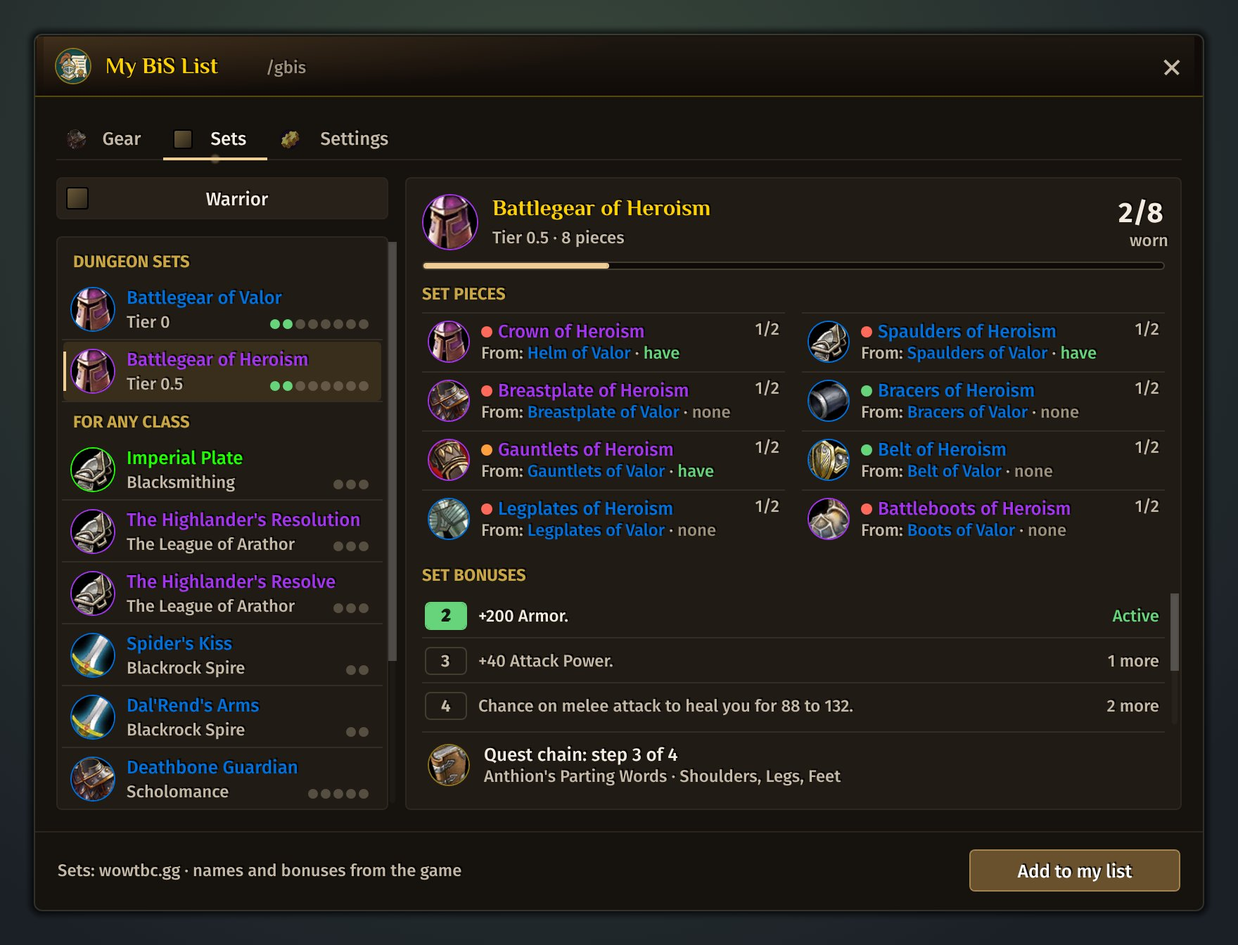
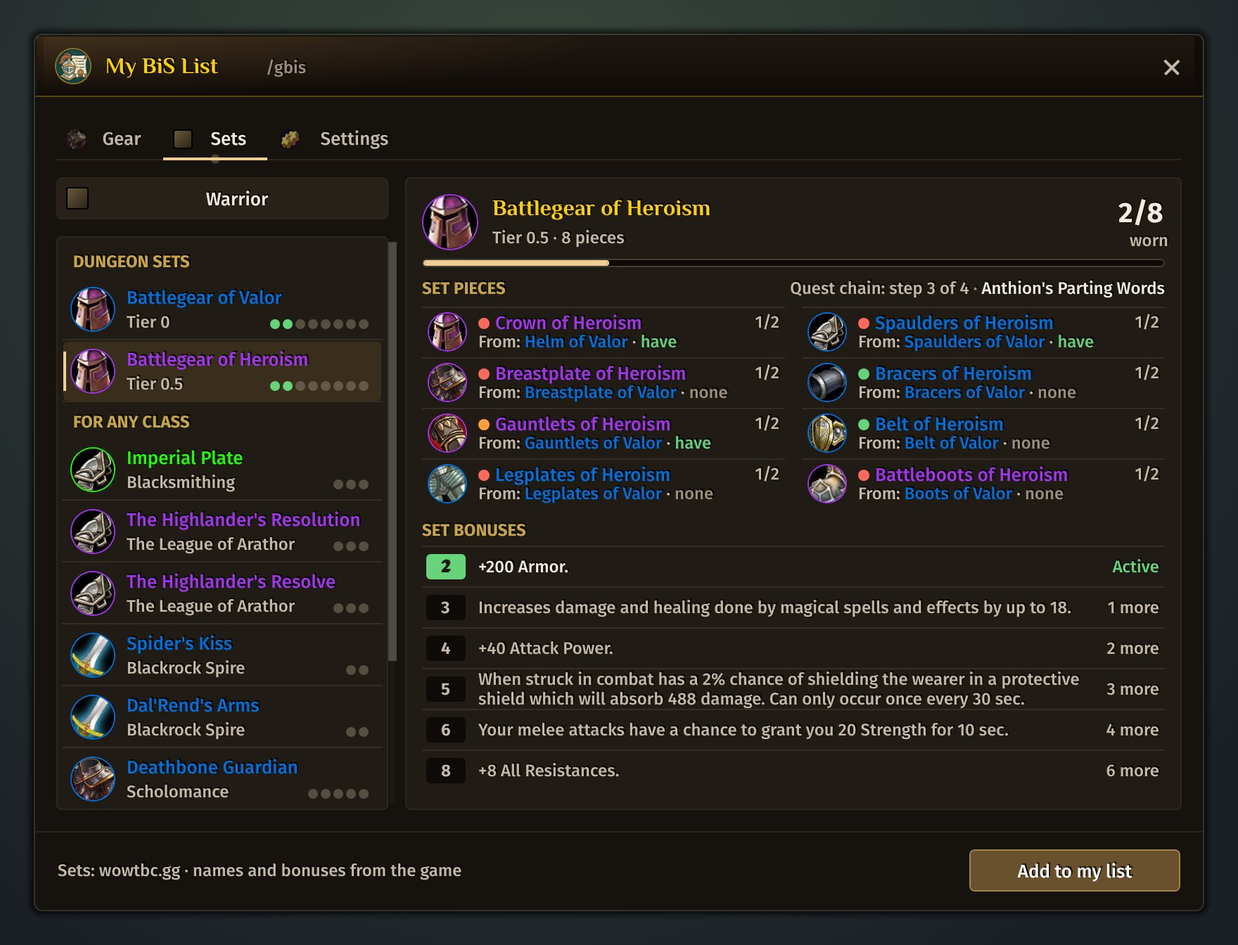
My BiS List 1.4.1: set bonuses fit without scrolling, come by themselves and are kept
The bonus rows share the card's room instead of scrolling, the tier 0.5 chain
is one line beside the pieces' head, the count chip is filled (its outline lost
its bottom edge at some scales), and the bonus texts the game told are saved
and drawn as soon as the client has them.

Claude-Session: https://claude.ai/code/session_01HDZ3VY24r8S3EzymjXHUkK

diff --git a/AGENTS.md b/AGENTS.md
@@ -97,7 +97,7 @@ Each one loads `Locales.lua`, `Core.lua`, `Skin.lua`, `UI.lua` (DungeonPrep adds
 - **Gulli-Fishing** (`/gfi`, `/gfi reset`; `GulliFishingDB`: the switches in `ns.DEFAULTS` (`cast`, `lure`, `loud`, `mute`, `interact`, `loot`, `remind`), each change through `ns.SetPref`, and `saved` (CVar -> the player's own value while the module changed it); `GulliFishingCharDB.s`: the session's `catches` and `items` id -> count). Fishing is "on" while a fishing pole is in the main hand (`ns.HasPole`) or for `ns.RECENT` seconds after a cast (`ns.Active`). A double right-click on the world (`WorldFrame` `OnMouseDown`, `ns.OnMouseDown`, within `ns.DOUBLE`) out of combat, not mounted or flying, with no unit under the mouse (`ns.CanCast`) binds `BUTTON2` to the secure button `GulliFishingCast` with `SetOverrideBindingClick` (`ns.Arm`), so the release of that press clicks it; `PostClick` or a one second timer takes the binding away (`ns.Disarm`, after the fight when one started). The button casts Fishing (`ns.SPELLS`: the retail spell first, then the ranks) or, with `lure`, puts the best lure of `ns.LURES` (best first, a new lure goes there) on the pole (`target-slot` 16) when it has none (`ns.LureToApply`). Never cast or click from insecure code. While fishing (`UNIT_SPELLCAST_CHANNEL_START` of a Fishing spell, `ns.OnCast`) `ns.Boost` sets the CVars of `ns.BOOST` for each switch that is on, keeping the old values in `saved`; `ns.Restore` puts them back `ns.RESTORE` seconds after the last cast, at `PLAYER_LOGOUT`, at load (a crash), on pause, after a fight. A new sound setting gets its CVars in `ns.BOOST`, a switch and a test. `ns.OnLoot` counts fishing loot (`IsFishingLoot`) once per loot window and, with `loot`, loots every slot unless the game auto-loots. `ns.CheckLure` tells a missing lure once (an `S.Toast`) until a lure is on the pole again. The module has no frame on the screen.
 - **Gulli-WorthIt**, called Worth It in the game (`/gwi`, `/gwi lead|stop|reset`; `GulliWorthItDB`: the switches in `ns.DEFAULTS` (`better`, `notify`, `showDone`), each change through `ns.SetPref`, `hidden` quest id -> true, `slots` item id -> slots read from the game, `trackerPoint`; `GulliWorthItCharDB`: `guide` (`targets` reward quest ids, `last`, `library` while it leads through the books), `told` quest id -> true, `libGoal` (the library reward quest the player made the goal) and `bookTold` (`b<quest>`/`t<quest>` -> true: a book in the bags, a library reward ready, told once)). Loads `Locales.lua`, `Tips.lua`, `Data.lua`, `Core.lua`, `Skin.lua`, `UI.lua`. It lists the quests whose reward is worth the walk and leads to them; it only reads the game and sets map pins. `Data.lua` is generated by `tools/worthit/build_data.py` from QuestieDB (through `questie.load_forever`); never edit it by hand: `D.kinds` (the kinds of reward in window order: `bag`, `ammo`, `soul`, `prof`, `secret`, each one row of `KINDS` in the generator by item class and subclass, so a new kind of lasting reward is a row there, a `KIND_<KEY>` text, an icon in `ns.KIND_ICON` and, when only one class uses it, an entry in `ns.KIND_CLASS`; a reward no item class marks or a hidden quest gives (the `secret` kind: the Cozy Sleeping Bag, hidden pets, Eluvi'ana) is named by its item id in the generator's `ITEM_KINDS` with what it gives (`xp`, `pet`, `toy`, `gear`, `D.perk`), and its kind tests false in `KINDS`; a secret no quest gives (a toy on a ledge, a pet a hidden creature gives) goes into the generator's `SPOTS` with an NPC or a place, and gets the made-up quest id minus its item id (`ns.Owned` says when it is got: the toy or pet known, or the item in the bags); a secret goes in only once players found the whole way, with its steps in `Tips.lua`; a kind that is no bag goes into `ns.PERKS`: it has no slots, counts as better until it is got (a pet or toy reward also once the game knows it, since its quest may repeat) and shows `GAIN_<WHAT>` and `SHORT_<WHAT>` of `ns.Perk` instead of slots; a new kind of what a secret gives gets those two texts in every language and a case in the secrets test), `D.sides` (quest -> who takes it back on each side, when each side has its own, read by `ns.Stop`), `D.rewards` (`{ item, kind, quest }` from the items' `questRewards`; a reward the data does not link to its quest goes into the generator's `EXTRA` by hand, repeatable quests are left out; `tools/worthit/bagquests.py` compares the list every day (through `tools/health/forever_content.py`) with the bag quests of the BagQuests addon, pmgower/bagquests-forever: an item it offers goes into `EXTRA` with its steps, or into `tools/worthit/bagquests_seen.txt` with the reason), `D.quest` (quest -> English name, level, required level, race mask, class mask, side, giver with area and x, y, who takes it back, the spot of its work; 0, 0 is a place on no map), `D.chain` (reward quest -> its chain, first step first), `D.alt` (a step -> the quests that may stand for it, the choices of an "any one of" earlier quest, one per faction; `ns.ChainOf` puts the character's own in the chain), `D.class` (`{ quest, class mask, items }`: the class quests that give an item, from the Wowhead snapshot `tools/worthit/wowhead-classquests.json` of WoW Forever's class-specific quests (collected on a player's computer; collect it again when Forever adds class quests) joined with QuestieDB for the chain and the places; the generator keeps only `CLASS_ITEM_CLASSES` items, a quest sort of a class or one class alone (so profession quests stay out), level 60 at most, and no raid of `CLOSED_RAIDS`: a raid Forever opens leaves that set; a Forever class quest the snapshot misses goes into the generator's `CLASS_EXTRA` with the reason; a quest's side is that of its starters, or both when trainers of both sides give it), `D.books` (WoW Forever's library books: `{ quest, book item, level, { area, x, y, ... }, taker }`, every quest that a librarian or the mage trainer of `TAKERS` in the generator takes back for exactly one item; the places are the spawns of the book's world object, and `BOOK_PLACES` by hand where the data has none), `D.takers` (who takes a book back, `{ A = { name, area, x, y }, H = ... }`), `D.tiers` (the rewards for so many books handed in: `TIERS` and `TIER_ITEMS` in the generator), `D.kalimdor` and `D.names` (the English name of every item above, from QuestieDB). An item's name goes through `ns.ItemName`: the client's, else `D.names`, else `...` while it loads and `ITEM_ID` once the server refused it (`GET_ITEM_INFO_RECEIVED` with success false, `ns.failed`); `ns.Ask` asks for an item once (again after `ns.ASK_AGAIN` seconds), `ns.Prefetch` asks for every item of the data at login and when the window shows, only an item we asked for repaints the window (`ns.OnItemInfo`), and an item tooltip shows the game's only once the client has the item (`setItemTip` in `UI.lua`). A new place that shows an item goes through these, and a new list of items in the data joins `ns.Prefetch`. The data has no slot counts: `ns.Slots` reads a bag's slots once from its tooltip (`C_TooltipInfo.GetItemByID`, the line that matches the client's `CONTAINER_SLOTS`) and keeps them in `slots`; never a number by hand. `ns.Bags` is what is worn (the smallest bag of each kind, the empty bag slots), `ns.Gain` what a reward adds (over the smallest worn bag of its kind, or the whole bag into an empty slot; nil while the slots are not known, which counts as better). `ns.Rewards` gives one entry per reward quest for this character (side, race and class of every step of the chain, `ns.KIND_CLASS`; the best of the items the quest offers; the same reward behind two quests once, by the branch further on) with its `state` (`ready`, `log`, `take`, `later`, `done`) from the first step of the chain that is not done; `ns.List` groups them (now, later, done) behind the three switches and the hidden ones; `ns.ClassQuests(classId)` gives the class quests of the character's class the same way (another class, picked from the row of class icons on the tab, `ns.CLASSES`, `ns.ClassName`, `ns.ClassIcon`: its quests on the character's side, or on both sides when that class has none there, any race, each in state `other` and group `all`, ordered by the level its chain starts at; nothing of this character's log counts, and it has no Lead, Hide or Lead through all) (`class = true`, every item in `options`, no slots; the **Class quests** tab, `ns.List("class")`, which puts up to `ns.LEVEL_PICKS` open quests within `ns.LEVEL_SPAN` levels of the character on top (`ns.LevelPicks`, group `level`, also for another class) and the rest by level, and where the `better` switch does not apply; `ns.Targets(true)` and `ns.StartGuide(nil, true)` are its **Lead through all**, and `ns.Entry` finds an entry of either list); a class quest's page lists its items (`{ item }` rows of `ns.DetailRows`) and has no steps of what to do; `ns.Potential` is what the open rewards add together (the hub's line, `ns.Summary`). The guide (`ns.StartGuide(quests)` or every open reward that is better, `ns.StopGuide`, `ns.StepGuide` on quest log, bag and zone events): `ns.Stop` is where an entry sends the character now (who gives the step, the spot of its work, who takes it back), `ns.GuideRows` orders the stops (the player's zone nearest first, the same continent, the other one, then places on no map and rewards that wait for a level), the first one gets the map pin (`ns.SetPin`, the world map's waypoint and TomTom's arrow when it is loaded), and the tracker (`GulliWorthItTracker`, an `S.HudPanel` with `S.Mover`, `ns.TrackerItems`, at most `ns.TRACK_MAX` rows) shows them; it shows only while a guide leads, so it has no show switch. One guide leads at a time, whatever module it is of: a module that starts one calls the `stop` of `GulliHUD.guide` when another module owns it and sets `GulliHUD.guide = { owner, stop }` (Worth It and Dungeon Journal's Lead me do; a new guide does the same, with a test). A guide keeps the stop it leads to while that stop is still on its route, so walking nearer to another one never moves the pin back and forth, and a pin it sets says nothing in chat (the tracker shows it); a new guide does the same, with a test. A reward quest handed in is one `S.Toast` and a `Notify`; a reward that opens (a level, an earlier step) is told once per character (`ns.CheckNew`, `told`; the first look only notes what is open; the toast behind `notify`). A new state of an entry gets its icon in `STATE_ICON`, an `ST_` text and its place in `STATE_ORDER`. Under a reward's lines its page says what to do (owner's request of 2026-11-19): `Tips.lua` (`ns.TIPS`: language -> reward quest -> two to four short steps, plain text, NPC, quest and item names in English) is written by hand from the quest texts and the players' comments on Wowhead's WoW Forever pages (`tools/worthit/wowhead-comments.json`, collected on a player's computer since Wowhead refuses servers); `ns.Tips` gives the client's language, else English, and `ns.DetailRows` the page's one scrolling list (a head, the wrapped steps, the chain's head, its quests). A new reward quest gets its steps in every language in the same pull request (the test checks every reward and the same number of lines per language). `python3 tools/worthit/comments.py` names a reward without steps, a chain quest the snapshot lacks and a snapshot older than `COMMENT_DAYS`; `--urls` lists the pages to collect, `--merge <folder>` takes a new collection and prints the new comments to read, `--digest` prints every reward with its top comments. The **Library** tab (owner's request of 2026-11-21): `ns.Books` gives each book's `state` (`done` handed in, `bag` in the bags or the bank (`C_Item.GetItemCount` with the bank), `take`, `later` while the character is `ns.BOOK_EARLY` levels below the book), `ns.Library` the count handed in and each reward's state (`done`, `log`, `ready`, `wait` with the books to hand in `hand` and, less those in the bags, still to find `left`, `later`), `ns.BookList` the list in groups (in the bags, to pick up, later, handed in). Every book is a stop of the library guide (`ns.StartLibrary`, `cdb.guide.library`): `ns.LibraryRows` gives one stop per book to pick up (`ns.BookPlace`: the place in the player's zone, else on the same continent), one per taker for the books in the bags, one per reward ready to take, and `ns.GuideRows` orders them like the reward guide, except that a book above the player's level (`high`, `band` in `ns.RankRow`/`ns.RowBefore`) comes after every book at or below it, the lowest first (owner's request of 2026-11-21). A click on a reward tile of the ladder makes it the goal (`ns.SetLibGoal`, again takes it away); with a goal `ns.LibGoal` gives the books still to find (its books less those handed in and in the bags), and the guide leads only to that many, the first in its own order. Every number of the tab (a tile, the footer, **Lead through the books** through `ns.LeadCount`) counts books still to find, never the guide's hand-in stops. A new rule of that order goes into `ns.RowBefore`, with a case in the library goal test. The tracker shows at most `ns.TRACK_BOOKS` (10, owner's decision) of them in rows of two lines and counts the rest (`TR_MORE`, the second value of `ns.TrackerItems`); a guide of a few rewards keeps `ns.TRACK_MAX`. `ns.CheckBooks` tells a book that came into the bags and a reward that opened, once. A new book or reward comes from the data; a new kind of library stop gets its kind in `ns.BookStop`, a `DO_` text and a case in the library guide test. `tools/worthit/build_data.py <questiedb> --unlinked` lists the Forever bags no quest, drop or vendor gives that are not in `tools/worthit/seen.txt`; `tools/health/forever_content.py` reports them.
 - **Gulli-VendorFlip**, called Vendor Flip in the game (RU «Перекуп»; `/gvf`, `/gvf scan`; `GulliVendorFlipDB`: the settings in `ns.DEFAULTS` (`scan`, `auto`, `sell`, `sound`, `interval` seconds, one of `ns.INTERVALS` (5 seconds to 5 minutes, read through `ns.Interval`), `minGain` copper, at least `ns.MIN_GAIN` (1), `reserve` copper kept aside, `keepFree` bag slots, and the filters: `gear`, `goods`, `q0`..`q4` (`ns.Wanted`: gear is item class 2 or 4, quality 5 and up counts as 4), `maxPrice` copper per line (0 no limit), `minPct` the least gain in percent of the cost (`ns.PriceOK`)), each change through `ns.SetPref`, the two money settings set through `S.MoneyStepper` (gold, silver and copper fields, each with - and + and a typed number), `history` (purchases, newest first, at most `ns.HISTORY_MAX`: `at`, `id`, `n`, `paid`, `value`, `sold`, `who`) and `owed` (character -> item id -> count bought here and not sold yet)). At the auction house it lists lots whose vendor price is above their buyout and buys them by clicks. Its own CurseForge project. `ns.Scan` runs `ns.Interval()` seconds after the last scan ended while the auction house is open (with `scan`): a browse of the whole market cheapest first (`SendBrowseQuery`, paged up to `MAX_PAGES`), `ns.Candidates` keeps the item keys whose lowest price is under the vendor price (the results are sifted `ns.SIFT_STEP` per frame, the pages added from the `_ADDED` event's own list, at most `ns.LOAD_MAX` unknown items asked to load per scan, and a burst of `GET_ITEM_INFO_RECEIVED` and scan steps redraws once through `ns.RefreshSoon`: a full market is tens of thousands of lots, and work over all of them in one frame stops the game), and the best `ns.DetailMax(interval)` of them (fewer at a short interval, so all scans stay under `ns.SEARCHES_PER_MIN` searches a minute) are searched one at a time; an item the filters leave out is never searched, and a filter changed after a scan hides its lines at once (`ns.Shown`) (`SendSearchQuery`) for their lots: `ns.CommodityDeal` (how many units of a commodity gain, within the money, the bags and the stack size) and `ns.ItemDeals` (an item search result is one price with `quantity` items on sale, its `buyoutAmount` the price of one, and `PlaceBid` buys one: so an item line is one item (`n` 1, `left` on sale) and stays after a purchase while more are left, searched again for a new auction id (`ns.Refetch`, `line.stale` meanwhile)); the window shows the auction and vendor price of one and the gain of one click (`ns.LineTip` in the row's tooltip); `ns.Click` never bids on an item line whose price of one is not below the vendor's (`lose`); `ns.FixGroupedHistory` puts right, once, the history entries of a non-stacking item that 1.4.0 logged as the whole lot (`db.groupFix`); each answer goes into `ns.lines` at once (`publish`: the item's lines are replaced, a line found again keeps its table and its `bought`), so a deal can be bought while the scan reads the rest, and what the scan did not find again leaves when it ends; the player's own lots never count. **Scan now** on the Deals page runs `ns.Scan(true)`. The scan waits `QUIET` seconds whenever the player or another addon sends a query (`ns.OthersQuery`, hooks on the `C_AuctionHouse` Send calls; ours are flagged), and for the throttle. `ns.Deals` keeps the lines worth at least `minGain` that the money (less `reserve`) and the free slots (less `keepFree`) allow, best gain first. Buying is `ns.Click(line)` from a hardware click only, never from an event or a timer: a commodity takes two clicks (`StartCommoditiesPurchase`, then `ConfirmCommoditiesPurchase` after `COMMODITY_PRICE_UPDATED`), an item one (`PlaceBid` with its buyout); it never bids, and a quote whose total reaches the vendor value turns the line `lose` and buys nothing. A buy click holds the scan (`ns.Holding`: a purchase runs or waits for its click, lines are queued, or the last click was less than `ns.HOLD` seconds ago): it sends no search or browse page meanwhile (`scan.held`), since one query at a time reaches the auction house. A click on another line while a purchase runs queues it (`ns.queue`, `ns.QueuePos`; a second click takes it out), `ns.Top` gives the queue first, and each queued line is still bought by a click of its own; a click while the throttle is not ready queues the line with `ERR_WAIT`. A purchase is written to the history when the game confirms it (`ns.pending` by auction id, `ns.pendingC` for commodities in order), also when the confirmation comes after the wait gave up. `ns.Log` writes each purchase to `history` and `owed`; at a vendor `ns.OfferSale` offers to sell what is owed (an `S.Toast`, or at once with `sell`), and `ns.Sell` sells only those items, `SELL_STEP` per step, never a protected one; a right-click on a History row keeps an item (`ns.Keep`). `ns.History(period)` (`ns.PERIODS`) adds it up for the History tab. The window stands beside the auction house through the shared side tabs (`order` 30, after Crates and CraftProfit). A new row state gets a word or button in `ns.RowButton` (`UI.lua`), its texts and a test; a new rule for what counts as a deal goes into the plain functions above with a case in `tests/vendorflip/test.lua`, including the random market test (what loses never shows).
-- **Gulli-MyBisList**, called My BiS List in the game (`/gbis`, `/gbis reset`; `GulliMyBisListDB`: the settings in `ns.DEFAULTS` (`tooltip`, `notify`, `real`, `drop`), each change through `ns.SetPref`, and `fav` list ref -> true (the star); `GulliMyBisListCharDB`: `spec` (the spec the player picked), `main` (the list ref the tooltips, notices and the hub follow, `auto` until the player makes one main) and `told` item id -> true). Its own CurseForge project. It only reads the game. `Data.lua` is generated by `tools/bislist/build_data.py` from the wowtbc.gg snapshot `tools/bislist/wowtbc.json`, which `tools/bislist/fetch.py` (the site's `page-data.json` of each spec page) fetches in `data.yml` every week; the site may refuse a server, so `tools/health/forever_content.py` reports a snapshot older than `BIS_DAYS` (collect it on a computer). Never edit `Data.lua` by hand; the lists are wowtbc.gg's work and the window and the docs name it. `D.specs` (28: key `CLASS_SPEC`, class, role, page, simulated), `D.stages` (`L20`..`L50`, `PRE`, `REAL`; the site's level-60 list is left out), `D.slots` (17, rings and trinkets as two slots each), `D.lists[spec][stage][slot]` (at most `KEEP` 5 ids, best first; the generator splits the level lists' rings and trinkets into two slots and takes a two-hander list for `main` when the spec's first pre-raid weapon is one), `D.ench` (the pre-raid lists' enchants: spec -> stage -> slot -> `{ spell id, English name, kind }`, kind `ench`, `kit`, `scope`, `arcanum` or `other` from the generator's `enchant_kind`; a new kind gets an icon in `ns.ENCH_ICON` and an `ENCH_SRC_<KIND>` text; `ns.Enchant(list, slot)` gives the client's name and icon of the spell, else the English name and the kind's icon, and `state` from `ns.EnchantState`: `on` or `none` by the enchant field of the worn item's link, which tells only that there is an enchant, not which, so the window never says the right one is on; the slot's badge, the row under the card's list and the tooltip lines show it), `D.sets` (the item sets for the **Sets** tab, `{ id, English name, kind, class, armour, faction, the set it is made from, piece ids, the piece counts of its bonuses }`: the site names a set's pieces and counts only, so the generator's tables give the rest: `T0`, `T05` (tier 0.5 -> the tier 0 set it is made from), `PVP_RANKS` with `PVP_CLASS`, `CLASS_SETS`, else the kind `any` with its armour; of two sets with one name the newer id is WoW Forever's; a piece the snapshot does not name gets its id from the QuestieDB Forever items (the generator's third argument, kept in `tools/bislist/set-items.json` for a run without it) and its English name in `D.names`; `D.setSteps` and `D.setStep` are the quests of the tier 0.5 chain and each piece's quest. `ns.SetList(class)` gives a class's sets group by group (`ns.SET_GROUPS`; `ns.SetFits`: its own class sets, and the sets for anyone of its best armour and faction), `ns.SetInfo(id, list)` a set against what is worn and carried: its places (`groups`; a set with more pieces of a slot than a character wears has variants, one per role, turned with `ns.SetTurn`), each with the tier 0 piece it is made from, `ns.SetBonuses` the bonuses (the texts only from the game: the `ITEM_SET_BONUS` lines of a piece's tooltip, never from the data; until the game gives them only the counts), `ns.SetName` the game's name asked through a piece (`GetItemInfo`'s set id, so a wrong id never names another set), `ns.SetChain` the step of the tier 0.5 chain whose pieces are missing, `ns.SetAdd` puts the shown pieces on a list through `ns.AddTo`. A new kind of set gets a key in the generator's `SET_KINDS`, its group in `ns.SET_GROUPS`, `SET_KIND_<KIND>` and `SETS_<GROUP>` texts and a case in the test), `D.src` (`{ kind, what, where }`, kinds `boss` with a Dungeon Journal key, `quest`, `rep`, `craft`, `pvp`, `vendor`, `fish`, `rare`, `zone`, `world`, `other`, `unknown`; a new kind gets an icon in `ns.SRC_ICON`, its texts and a case in `ns.SourceText`), `D.item[id]` (`{ slot code, quality, item level, required level, source index, faction A/H or nil, English name, type }`). A list is named by a ref: `auto` (`ns.MySpec` at `ns.AutoStage`, `REAL` at the top with `real`) or `site:<SPEC>:<STAGE>` (`ns.Ref`, `ns.ParseRef`); `ns.Resolve` drops the other faction's items (`ns.Filter`). `ns.SlotRows` compares a list with what is worn and carried (`C_Item.GetItemCount` with the bank): `bis`, `bag` (a better one carried), `rank`, `miss`, `none`, `covered` (the off hand while the list's first weapon is a two-hander; not counted), with a worn ring or trinket counted in the slot where it ranks best (`ns.PAIR`), and `top`/`topAt` (the list's first item: `worn`, `bag` (bags or bank, `ns.Carried`) or `miss`); a slot button shows that item with a dot in `ns.AT_COLOR` and the word `AT_<WHERE>` in its tooltip (owner's decision of 2026-11-21), and the card lists the slot's items, then what is worn under a line when it is not one of them (`ns.CardItems`, `sep`). `ns.Progress` counts the slots whose first item is worn. **My target** (`ns.SetTarget`) puts an item first; on a site list it goes into the own list copied from it (`ns.OwnFor`: made the first time, then main and shown); `ns.AddTo` adds through the same copy. The adder's search takes an id or an item link too (`ns.ParseId`, a Shift-click while it has the focus, `ns.OnLink`) and offers that item whatever list it is on. With `drop`, a wanted item (`ns.Wanted`: on the main list, better than what is worn there, not carried) in the loot window (`LOOT_READY`, also master loot) or a roll (`START_LOOT_ROLL`) plays a sound and shows a toast once a minute per item (`ns.CheckDrop`). The star (`ns.SetFav`) and the main list (`ns.SetMain`) are apart (owner's decision of 2026-11-21). Own lists (`db.own[n]`, ref `own:<n>`, for the whole account, in the hub's Export / import with the rest of the saved variables): `ns.CopyList` copies a site or own list (`from` keeps the site ref, `snap` its first item per slot), `ns.OwnAdd`/`ns.OwnRemove`/`ns.RenameOwn` edit it (the window has no arrows, owner's decision; `ns.OwnMove` stays for the order) (at most `ns.OWN_MAX` a slot; a copy takes `ns.COPY_MAX`), `ns.DeleteOwn` returns what `ns.RestoreOwn` needs for Undo, `ns.SiteNews` names the slots whose first site item changed since (`ns.AckNews`). An own list is never filtered by faction. Its search is `ns.Candidates`: items of `D.item` that fit the slot for the class (`ns.Fits`: `ns.ARMOR`, `ns.WEAPON`, `ns.DUAL`; a new item kind gets its rule there and a case in the test), the spec's own site items first, then the class's, then by item level. `ns.DetectSpec`: the retail specialization (`ns.SPEC_ID`), else the talent tab with most points (`ns.TABS`), else the first; the player's pick wins. The tooltip line (`ns.TipLines`, group `note`) and the notice of a better item in the bags (`ns.CheckBags`, items up to `ns.TOP`, once per item, never on the first look after login) follow the main list. A new spec or stage comes from the site through the generator, with its `SPEC_`/`STAGE_` texts in every language and a case in `tests/mybislist/test.lua`.
+- **Gulli-MyBisList**, called My BiS List in the game (`/gbis`, `/gbis reset`; `GulliMyBisListDB`: the settings in `ns.DEFAULTS` (`tooltip`, `notify`, `real`, `drop`), each change through `ns.SetPref`, and `fav` list ref -> true (the star), `bonus` and `bonusLang` (the set bonus texts the game told); `GulliMyBisListCharDB`: `spec` (the spec the player picked), `main` (the list ref the tooltips, notices and the hub follow, `auto` until the player makes one main) and `told` item id -> true). Its own CurseForge project. It only reads the game. `Data.lua` is generated by `tools/bislist/build_data.py` from the wowtbc.gg snapshot `tools/bislist/wowtbc.json`, which `tools/bislist/fetch.py` (the site's `page-data.json` of each spec page) fetches in `data.yml` every week; the site may refuse a server, so `tools/health/forever_content.py` reports a snapshot older than `BIS_DAYS` (collect it on a computer). Never edit `Data.lua` by hand; the lists are wowtbc.gg's work and the window and the docs name it. `D.specs` (28: key `CLASS_SPEC`, class, role, page, simulated), `D.stages` (`L20`..`L50`, `PRE`, `REAL`; the site's level-60 list is left out), `D.slots` (17, rings and trinkets as two slots each), `D.lists[spec][stage][slot]` (at most `KEEP` 5 ids, best first; the generator splits the level lists' rings and trinkets into two slots and takes a two-hander list for `main` when the spec's first pre-raid weapon is one), `D.ench` (the pre-raid lists' enchants: spec -> stage -> slot -> `{ spell id, English name, kind }`, kind `ench`, `kit`, `scope`, `arcanum` or `other` from the generator's `enchant_kind`; a new kind gets an icon in `ns.ENCH_ICON` and an `ENCH_SRC_<KIND>` text; `ns.Enchant(list, slot)` gives the client's name and icon of the spell, else the English name and the kind's icon, and `state` from `ns.EnchantState`: `on` or `none` by the enchant field of the worn item's link, which tells only that there is an enchant, not which, so the window never says the right one is on; the slot's badge, the row under the card's list and the tooltip lines show it), `D.sets` (the item sets for the **Sets** tab, `{ id, English name, kind, class, armour, faction, the set it is made from, piece ids, the piece counts of its bonuses }`: the site names a set's pieces and counts only, so the generator's tables give the rest: `T0`, `T05` (tier 0.5 -> the tier 0 set it is made from), `PVP_RANKS` with `PVP_CLASS`, `CLASS_SETS`, else the kind `any` with its armour; of two sets with one name the newer id is WoW Forever's; a piece the snapshot does not name gets its id from the QuestieDB Forever items (the generator's third argument, kept in `tools/bislist/set-items.json` for a run without it) and its English name in `D.names`; `D.setSteps` and `D.setStep` are the quests of the tier 0.5 chain and each piece's quest. `ns.SetList(class)` gives a class's sets group by group (`ns.SET_GROUPS`; `ns.SetFits`: its own class sets, and the sets for anyone of its best armour and faction), `ns.SetInfo(id, list)` a set against what is worn and carried: its places (`groups`; a set with more pieces of a slot than a character wears has variants, one per role, turned with `ns.SetTurn`), each with the tier 0 piece it is made from, `ns.SetBonuses` the bonuses (the texts only from the game: the `ITEM_SET_BONUS` lines of a piece's tooltip, never from the data; what the game told is kept in `GulliMyBisListDB.bonus` (set id -> `{ count, text }`, dropped when the client language `bonusLang` changes) and shows until the game tells again; a set still without texts is `ns.bonusWait`, and `TOOLTIP_DATA_UPDATE`, `GET_ITEM_INFO_RECEIVED` or the mouse on a piece draw the page again; the bonus rows never scroll: `ns.BonusLayout` shares the card's room between them, two lines of text while a row is high enough, the full text in the row's tooltip, and the tier 0.5 chain is one line beside the pieces' head), `ns.SetName` the game's name asked through a piece (`GetItemInfo`'s set id, so a wrong id never names another set), `ns.SetChain` the step of the tier 0.5 chain whose pieces are missing, `ns.SetAdd` puts the shown pieces on a list through `ns.AddTo`. A new kind of set gets a key in the generator's `SET_KINDS`, its group in `ns.SET_GROUPS`, `SET_KIND_<KIND>` and `SETS_<GROUP>` texts and a case in the test), `D.src` (`{ kind, what, where }`, kinds `boss` with a Dungeon Journal key, `quest`, `rep`, `craft`, `pvp`, `vendor`, `fish`, `rare`, `zone`, `world`, `other`, `unknown`; a new kind gets an icon in `ns.SRC_ICON`, its texts and a case in `ns.SourceText`), `D.item[id]` (`{ slot code, quality, item level, required level, source index, faction A/H or nil, English name, type }`). A list is named by a ref: `auto` (`ns.MySpec` at `ns.AutoStage`, `REAL` at the top with `real`) or `site:<SPEC>:<STAGE>` (`ns.Ref`, `ns.ParseRef`); `ns.Resolve` drops the other faction's items (`ns.Filter`). `ns.SlotRows` compares a list with what is worn and carried (`C_Item.GetItemCount` with the bank): `bis`, `bag` (a better one carried), `rank`, `miss`, `none`, `covered` (the off hand while the list's first weapon is a two-hander; not counted), with a worn ring or trinket counted in the slot where it ranks best (`ns.PAIR`), and `top`/`topAt` (the list's first item: `worn`, `bag` (bags or bank, `ns.Carried`) or `miss`); a slot button shows that item with a dot in `ns.AT_COLOR` and the word `AT_<WHERE>` in its tooltip (owner's decision of 2026-11-21), and the card lists the slot's items, then what is worn under a line when it is not one of them (`ns.CardItems`, `sep`). `ns.Progress` counts the slots whose first item is worn. **My target** (`ns.SetTarget`) puts an item first; on a site list it goes into the own list copied from it (`ns.OwnFor`: made the first time, then main and shown); `ns.AddTo` adds through the same copy. The adder's search takes an id or an item link too (`ns.ParseId`, a Shift-click while it has the focus, `ns.OnLink`) and offers that item whatever list it is on. With `drop`, a wanted item (`ns.Wanted`: on the main list, better than what is worn there, not carried) in the loot window (`LOOT_READY`, also master loot) or a roll (`START_LOOT_ROLL`) plays a sound and shows a toast once a minute per item (`ns.CheckDrop`). The star (`ns.SetFav`) and the main list (`ns.SetMain`) are apart (owner's decision of 2026-11-21). Own lists (`db.own[n]`, ref `own:<n>`, for the whole account, in the hub's Export / import with the rest of the saved variables): `ns.CopyList` copies a site or own list (`from` keeps the site ref, `snap` its first item per slot), `ns.OwnAdd`/`ns.OwnRemove`/`ns.RenameOwn` edit it (the window has no arrows, owner's decision; `ns.OwnMove` stays for the order) (at most `ns.OWN_MAX` a slot; a copy takes `ns.COPY_MAX`), `ns.DeleteOwn` returns what `ns.RestoreOwn` needs for Undo, `ns.SiteNews` names the slots whose first site item changed since (`ns.AckNews`). An own list is never filtered by faction. Its search is `ns.Candidates`: items of `D.item` that fit the slot for the class (`ns.Fits`: `ns.ARMOR`, `ns.WEAPON`, `ns.DUAL`; a new item kind gets its rule there and a case in the test), the spec's own site items first, then the class's, then by item level. `ns.DetectSpec`: the retail specialization (`ns.SPEC_ID`), else the talent tab with most points (`ns.TABS`), else the first; the player's pick wins. The tooltip line (`ns.TipLines`, group `note`) and the notice of a better item in the bags (`ns.CheckBags`, items up to `ns.TOP`, once per item, never on the first look after login) follow the main list. A new spec or stage comes from the site through the generator, with its `SPEC_`/`STAGE_` texts in every language and a case in `tests/mybislist/test.lua`.
 - **Gulli-CraftsmansWrit**, called Craftsman's Writ in the game, Writ Runner until 1.0.0 (`/gcw`, `/gwr` kept for 1.0.0, `/gcw lead|stop|plan|pouches|perf`; `GulliCraftsmansWritDB`: the settings in `ns.DEFAULTS` (`bank`, `sealed`, `pouch`, `live`, `auto`, `tooltip`, `goal` (0 the next standing, else a reaction index of `ns.GOALS`), `days` 1 to `ns.DAYS_MAX`, 31, `writSort`), each change through `ns.SetPref`, which marks a shown plan outdated (`ns.stale`), `history` (turn-ins, newest first, at most `ns.HISTORY_MAX`: `at`, `writ`, `rep`, `paid`, `pouch`, `who`), `lots` (character -> item -> `{ n, copper }` bought here and not used yet), `spots` (quest -> a customer the data lacks: `map`, `x`, `y`, `name`, `src` `marker` or `turnin`), `chars` (character -> `side`, `class`, `writs`, `items` with the bank, for the tooltips), `pouches` (rank -> `n`, `total`, `min`, `max` of the Coin Pouches opened), `realm`, `trackerPoint`; `GulliCraftsmansWritCharDB`: `mult` (the Diplomat bonus read from a turn-in), `pouchDay`). Its own CurseForge project. The Craftsman's Writs of WoW Forever: 150 writs in three ranks (`ns.RANKS`, reputation `ns.REP`), each a daily quest that asks for one crafted item and gives reputation with the trade camp (`ns.FACTION` by side, standings `ns.REACTION_AT`) and a Coin Pouch (`ns.POUCH`; what it holds is learned: `ns.PouchAvg` weighs the players' average `ns.POUCH_AVG` as `ns.POUCH_PRIOR` pouches; `ns.PouchCheck` pairs money that came in while a loot window and no vendor was open with a pouch that left the bags within `POUCH_WAIT` seconds). Each writ can be handed in once a day (`C_QuestLog.IsQuestFlaggedCompleted`); one handed in today shows the time to the daily reset in red (`ns.DoneText`, counted down once a minute by `ns.TickClock` while the window shows). `Data.lua` (`ns.WRITS`: writ item -> quest, rank, profession, item, count, side, customer npc, uiMapID, x, y; `ns.NPCS`; `ns.SEALED`: Sealed Writ item -> rank; `ns.KALIMDOR`) is generated by `tools/craftsmanswrit/build_data.py` from AllTheThings' WoW Forever data (`craftsman's writs.lua`, read as text; its map constants go to uiMapIDs through `MAPS` there, a new zone gets its id there) in `data.yml`; never edit it by hand. A customer the data lacks is learned from the quest's waypoint (`ns.LearnFromMarker`) and at the turn-in (`ns.LearnFromTurnIn`, never a secret name). `ns.Plan(input)` is plain Lua: every writ type gets the cost of its 1st, 2nd, ... copy (at most one a day, `days`, one less when it was handed in today; the writ and its item from the bags and the bank first, then the k-th cheapest lot through `price(id, n, skip)`), less its pouch; a Sealed Writ is a type of its own at its envelope plus the mean item price of its rank, marked `estimate`; a knapsack in steps of 25 reputation picks the copies that reach the goal for the least gold (a copy that pays more than it costs is always taken), copy k goes to day k. `ns.ShoppingList`, `ns.Ways` (cost per 100 reputation by rank) and the window read it; the plan shows every pouch (`ns.LineParts`, `ns.CostText`, the tiles Purchases, Coin Pouches, Total). At the auction house with `live`, Calculate reads the lots of what the plan buys (`ns.ScanLots`, `COMMODITY_SEARCH_RESULTS_UPDATED`/`ITEM_SEARCH_RESULTS_UPDATED`) and plans again, up to `LIVE_ROUNDS` times. The plan is bought in steps (`ns.BuySteps`: one writ type a step, its writs, then its item; `ns.StepNodes` a node a copy, filled for what the bags held at the plan or was bought here; the strip over the footer, `ns.StepView`). Buying is `ns.BuyClick` from the **Buy** click only: a commodity in two clicks for all units of the line (`StartCommoditiesPurchase`, `ConfirmCommoditiesPurchase`), an item that is no commodity one auction a unit: the first click searches (`SendSearchQuery`), then each click buys one (`PlaceBid`) and the next lot comes from the same results without the auctions bought or gone (`line.gone`, `ns.ItemQuote`); an item whose commodity status the client does not know yet is tried as a commodity and searched as an item when `COMMODITY_PRICE_UNAVAILABLE` comes; a throttled auction house is `ERR_WAIT`; never from an event or a timer. A copy whose item has no price is never planned (never priced 0). Calculate plans anew from the bags and the bank; at the auction house it drops every lot read and reads them again, away from it `ns.Price` ignores the lots. The Writs tab's search (`ns.WritMatches`) needs every word in the writ, its item, trade, rank, customer or zone. The window (`UI.lua`, narrow, tabs Today, Plan, Writs, History, Settings) opens beside the auction house through the side tabs (`order` 15) when the plan buys something or a writ lacks its item (`ns.WorkAtAH`, behind `auto`) and closes with it (`S.ClosesWith`). `ns.TurnedIn` (`QUEST_TURNED_IN`) logs a turn-in with what `ns.TakeLots` says it cost and keeps the reputation the game reports after it (`ns.NoteRep`, the Diplomat bonus in `ns.Mult`). The guide (`ns.StartGuide`, **Lead me** on the Today tab) leads to the customers of the writs that are ready (`ns.Stops`, one per customer, `ns.RankStops`: the same continent first, the nearest by world distance), pins the first (`ns.SetPin`; it keeps the stop it leads to while it is still among the nearest) and shows the tracker (`GulliCraftsmansWritTracker`, `S.HudPanel` with `S.Mover`, the hub's `frames`); it follows the one-guide rule of `GulliHUD.guide`. `ns.TipLines` gives the Gulli block lines of a writ, a Sealed Writ, a Coin Pouch and an item a writ asks for (`tooltip`). The Today tab shows what handing in each held writ costs from here (`ns.CloseCost`: the item still to buy, bags and bank counted as owned, less the pouch; a group's head adds them up), and the writ's tooltip splits it (`TIP_CLOSE`). `ns.CostText` writes a gain green with `+` and a loss red with `-`, and a plan line under it says **profit** or **loss**. `ns.Prefetch` asks for every writ and item name of the side at login and when the window shows, `PREFETCH_STEP` at a time and each at most once a minute, so the lists show names, not `...`. Calculate runs as a job (`ns.Calculating()` gives the share for the bar over the plan and the button), with each price asked once per plan; the window, the hub's line and the tooltips read the states and costs through `ns.Cached` until an event calls `ns.Invalidate`, and `/gcw perf` prints how long the last redraw and plan took. The Writs tab sorts by `writSort` (`ns.WritRows(rank, sort)`: `gain` the best gain first and the writs without a price last, `prof` the data's order); a new order gets a key there, a `SORT_` text and a case in the test. A new rule of the planner gets a case in `tests/craftsmanswrit/test.lua`; the route with flights and the recipe marks are planned next (#518).
 - A module that acts on its own (sells, takes, rolls, accepts, declines) has a switch for each action, in its window and its saved variables, with a test that the switch stops it. Turning a whole module off is the hub's job (`ns.Switch`, through the module's `pause`).
 

diff --git a/docs/mybislist/README.md b/docs/mybislist/README.md
@@ -25,7 +25,7 @@ Which helmet should you hunt for at level 40? My BiS List shows the best items f
 - **Against what you wear.** Each slot shows the best item of the list with a dot: green when you wear it, yellow when it is in your bags or bank, red when you do not have it yet. Open a slot to see its five items, and what you wear under a line when it is not one of them. A bar shows how many best items you wear.
 - **Where to get it.** Each item says where it comes from: a boss and its dungeon, a quest, a reputation, a craft or a world drop.
 - **The best enchants.** The lists before the raids name the best enchant for each slot. A small mark on the slot is bright in a green ring when the item you wear there has an enchant, and grey in a red ring when it has none. Under the slot's items you see the enchant, who makes it (an enchanter, a leatherworker, an engineer or a quest), and point at it for its details.
-- **Sets.** The **Sets** tab lists the item sets of your class: the dungeon sets (tier 0 and tier 0.5), the PvP sets, and the sets anyone with your armour can wear. Pick a set to see its pieces, which ones you wear or carry, and its bonuses with how many pieces each one still needs. A tier 0.5 piece names the tier 0 piece it is made from and the quest of the chain that gives it. **Add to my list** puts the set's pieces on your list. The button at the top left shows the sets of another class.
+- **Sets.** The **Sets** tab lists the item sets of your class: the dungeon sets (tier 0 and tier 0.5), the PvP sets, and the sets anyone with your armour can wear. Pick a set to see its pieces, which ones you wear or carry, and its bonuses with how many pieces each one still needs. The bonus texts come from the game; the addon remembers them, so they are there the next time you log in. A tier 0.5 piece names the tier 0 piece it is made from and the quest of the chain that gives it. **Add to my list** puts the set's pieces on your list. The button at the top left shows the sets of another class.
 - **Realistic before the raids.** The switch **Realistic** shows the list without the hardest items to get.
 - **My target.** The target button on an item makes it the first of its slot. On a site list, the first click makes your own copy of it, and that copy becomes your main list. What you wear can be your target too.
 - **Your own lists.** **Copy to mine** makes a copy of any list that you can change: make an item your target, remove items, and add others with a search over the items your class can use (the ones of your spec first). Type an item id or Shift-click an item into the search to add any item at all. Rename it in the box at the top. When the site later changes the first item of a slot, a line over the list says which slots. Your lists are for every character of your account.
